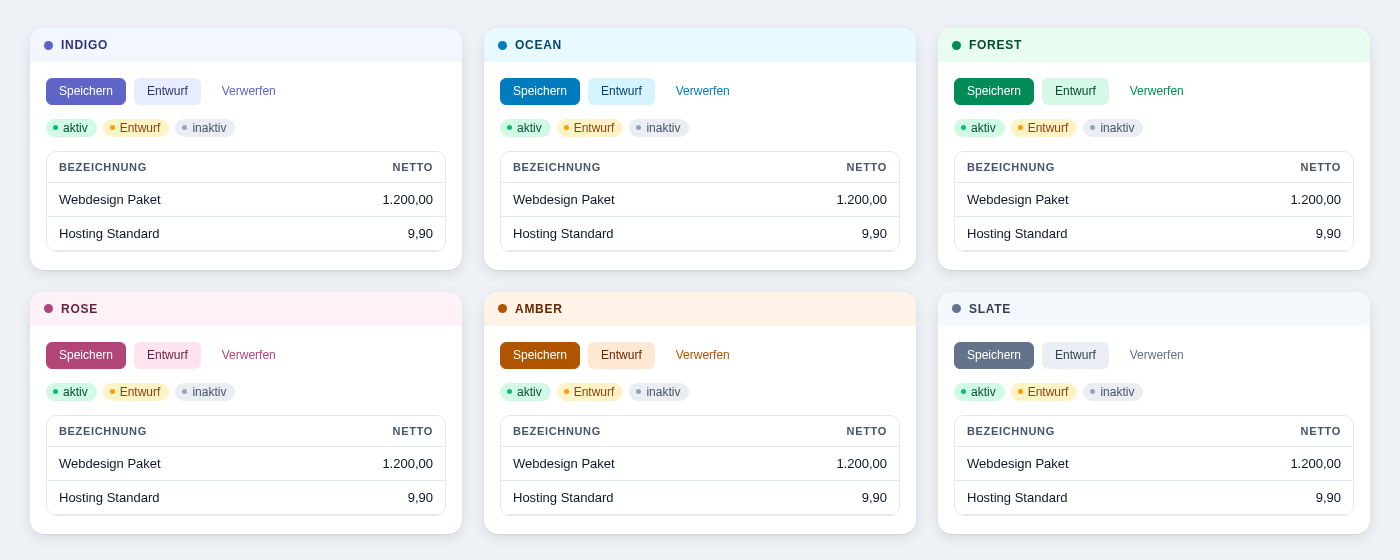
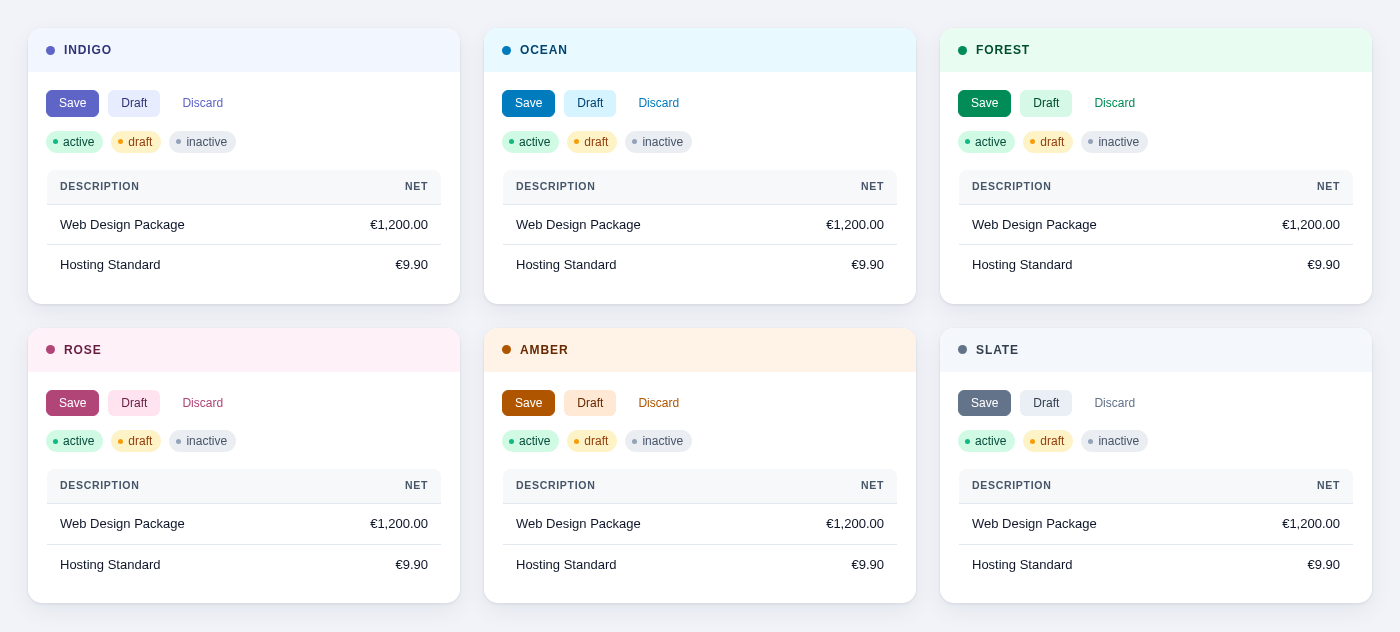
fix: currency, dates and numbers follow the locale (v1.30.0)
`['format' => 'currency']` emitted `1.200,00 €` for every user; `'date'`
emitted `d.m.Y`; `'number'` grouped with German separators. An English page
showed German money and a date an American reader would misread by ten months.

All four now resolve through Lang::t(). The English date format is `M j, Y`
rather than `m/d/Y` on purpose — `03/09` is genuinely ambiguous across the
Atlantic and `Mar 9` is not. A column can still override with
['currency' => '${value}'] or ['dateFormat' => 'Y-m-d'], so a non-EUR project
is one option away.

The demo's sample data now follows the locale too. The English demo listed
`Webdesign Paket S` and `SEO Beratung` at `1.200,00 €` — the first thing a
visitor sees, saying "German-market tool" before the README got a word in.

All README screenshots retaken in English and renamed to match. The theme
comparison was rebuilt from real GridKit markup instead of being hand-drawn,
so it shows what the six themes actually render — including the status colours
staying constant across all six, which is why semantic roles are kept out of
the theme blocks.

Added docs/social-preview.png: without one, every link posted anywhere shows
GitHub's grey default instead of the product.

Claude-Session: https://claude.ai/code/session_01TQ6nXrJZ1uSo5ACzRxHvuM

diff --git a/demo/index.php b/demo/index.php
@@ -18,6 +18,42 @@ use GridKit\Lang;
 $lang = $_GET['lang'] ?? $_COOKIE['gk_lang'] ?? 'en';
 if (!in_array($lang, ['en', 'de'])) $lang = 'en';
 Lang::set($lang);
+
+/**
+ * The sample data is written in German. Translating it for the English demo
+ * matters more than it looks: this table is the project's shop window, and
+ * German product names tell an English visitor that GridKit is a
+ * German-market tool. Prices stay as they are — the currency is genuinely EUR.
+ */
+$demoRows = static function (array $rows) use ($lang): array {
+    if ($lang !== 'en') return $rows;
+
+    static $map = [
+        'Webdesign Paket S'   => 'Web Design Package S',
+        'Webdesign Paket L'   => 'Web Design Package L',
+        'Webdesign Paket'     => 'Web Design Package',
+        'SEO Beratung'        => 'SEO Consulting',
+        'Social Media Paket'  => 'Social Media Package',
+        'Content Erstellung'  => 'Content Creation',
+        'SSL Zertifikat'      => 'SSL Certificate',
+        'App Entwicklung'     => 'App Development',
+        'Datenbank Migration' => 'Database Migration',
+        'E-Mail Marketing'    => 'Email Marketing',
+        'psch'                => 'flat',
+        'Stk'                 => 'pcs',
+    ];
+
+    foreach ($rows as &$row) {
+        foreach ($row as $key => $value) {
+            if (is_string($value) && isset($map[$value])) {
+                $row[$key] = $map[$value];
+            }
+        }
+    }
+    unset($row);
+
+    return $rows;
+};
 if (isset($_GET['lang'])) {
     setcookie('gk_lang', $lang, time() + 86400 * 365, '/');
 }
@@ -136,7 +172,7 @@ echo $demoHeader->title($headerTitle, true)
 
     <h3 style="margin: 32px 0 16px;">Complete table with all features</h3>
         <?php
-        $articles = [
+        $articles = $demoRows([
             ['article_id' => 1, 'article_number' => 'ART-001', 'name' => 'Webdesign Paket S', 'unit' => 'psch', 'net_price' => 1200.00, 'tax_rate' => 20, 'is_active' => 'active'],
             ['article_id' => 2, 'article_number' => 'ART-002', 'name' => 'Hosting Standard', 'unit' => 'Stk', 'net_price' => 9.90, 'tax_rate' => 20, 'is_active' => 'active'],
             ['article_id' => 3, 'article_number' => 'ART-003', 'name' => 'SEO Beratung', 'unit' => 'h', 'net_price' => 95.00, 'tax_rate' => 20, 'is_active' => 'inactive'],
@@ -152,7 +188,7 @@ echo $demoHeader->title($headerTitle, true)
             ['article_id' => 13, 'article_number' => 'ART-013', 'name' => 'App Entwicklung', 'unit' => 'h', 'net_price' => 125.00, 'tax_rate' => 20, 'is_active' => 'draft'],
             ['article_id' => 14, 'article_number' => 'ART-014', 'name' => 'Datenbank Migration', 'unit' => 'psch', 'net_price' => 890.00, 'tax_rate' => 20, 'is_active' => 'active'],
             ['article_id' => 15, 'article_number' => 'ART-015', 'name' => 'Security Audit', 'unit' => 'psch', 'net_price' => 1500.00, 'tax_rate' => 20, 'is_active' => 'inactive'],
-        ];
+        ]);
         $table = new Table('articles');
         $table->setData($articles)
             ->search(['article_number', 'name'])
@@ -254,12 +290,12 @@ $table->size('lg');  // spacious</pre></div>
 
     <h3 style="margin: 32px 0 16px;">Display variants</h3>
     <?php
-    $varData = [
+    $varData = $demoRows([
         ['name' => 'Webdesign Paket', 'price' => '1.200 €', 'status' => 'active'],
         ['name' => 'Hosting Standard', 'price' => '9,90 €', 'status' => 'active'],
         ['name' => 'SEO Beratung', 'price' => '95 €', 'status' => 'inactive'],
         ['name' => 'Logo Design', 'price' => '450 €', 'status' => 'draft'],
-    ];
+    ]);
     $variants = [
         'default'      => 'Default',
         'bordered'     => 'Bordered',

diff --git a/src/Table.php b/src/Table.php
@@ -467,7 +467,7 @@ class Table
                 }
             } else {
                 // Load time only
-                $timeDisplay = $this->loadTimeMs < 1000 ? $this->loadTimeMs . ' ms' : number_format($this->loadTimeMs / 1000, 2, ',', '.') . ' s';
+                $timeDisplay = $this->loadTimeMs < 1000 ? $this->loadTimeMs . ' ms' : number_format($this->loadTimeMs / 1000, 2, Lang::t('format.decimal'), Lang::t('format.thousands')) . ' s';
                 echo '<td colspan="' . $totalCols . '" class="gk-table-meta">'
                     . $e((string) $this->totalRows) . ' ' . $e(Lang::t('pagination.entries')) . ' · ' . $timeDisplay
                     . '</td>';
@@ -608,14 +608,15 @@ class Table
     /** Whole numbers; 0 and empty turn into an em dash (count columns). */
     private function formatNumber(mixed $val, array $col): string
     {
-        $leer = ($col['blankZero'] ?? true)
+        $blank = ($col['blankZero'] ?? true)
             && ($val === null || $val === '' || (is_numeric($val) && (float) $val == 0.0));
-        if ($leer) {
+        if ($blank) {
             return '<span class="gk-num gk-num-empty">—</span>';
         }
-        $stellen = (int) ($col['decimals'] ?? 0);
+        $decimals = (int) ($col['decimals'] ?? 0);
         $text = is_numeric($val)
-            ? number_format((float) $val, $stellen, ',', '.')
+            ? number_format((float) $val, $decimals,
+                Lang::t('format.decimal'), Lang::t('format.thousands'))
             : (string) $val;
         return '<span class="gk-num">' . htmlspecialchars($text, ENT_QUOTES, 'UTF-8') . '</span>';
     }
@@ -627,10 +628,19 @@ class Table
         if ($fmt === null) return $e($val);
 
         return match ($fmt) {
-            'currency' => $e(number_format((float)$val, 2, ',', '.') . ' €'),
+            'currency' => $e(str_replace(
+                '{value}',
+                number_format((float) $val, 2,
+                    Lang::t('format.decimal'), Lang::t('format.thousands')),
+                $col['currency'] ?? Lang::t('format.currency')
+            )),
             'percent' => $e((int)$val . '%'),
-            'date' => $val ? $e(date('d.m.Y', strtotime($val))) : '',
-            'datetime' => $val ? $e(date('d.m.Y H:i', strtotime($val))) : '',
+            'date' => $val
+                ? $e(date($col['dateFormat'] ?? Lang::t('format.date'), strtotime($val)))
+                : '',
+            'datetime' => $val
+                ? $e(date($col['dateFormat'] ?? Lang::t('format.datetime'), strtotime($val)))
+                : '',
             'boolean' => (int)$val ? '<span class="gk-bool gk-bool-yes">✓</span>' : '<span class="gk-bool gk-bool-no">–</span>',
             'email' => '<a href="mailto:' . $e($val) . '">' . $e($val) . '</a>',
             'label' => $this->renderLabel($val, $col['labels'] ?? []),

diff --git a/tests/lang.test.php b/tests/lang.test.php
@@ -134,4 +134,38 @@ return [
     Lang::set('en');
 },
 
+'currency, dates and numbers follow the locale' => function (): void {
+    $render = static fn(): string => T::capture(fn() => (new Table('t'))
+        ->setData([['id' => 1, 'price' => 1234.5, 'due' => '2026-03-09', 'qty' => 9876]])
+        ->column('price', 'Price', ['format' => 'currency'])
+        ->column('due',   'Due',   ['format' => 'date'])
+        ->column('qty',   'Qty',   ['format' => 'number'])
+        ->render());
+
+    Lang::set('en');
+    $en = $render();
+    T::contains($en, '€1,234.50', 'english currency: symbol first, comma grouping');
+    T::contains($en, 'Mar 9, 2026', 'english date is unambiguous — not d.m.Y or m/d/Y');
+    T::contains($en, '9,876', 'english number grouping');
+
+    Lang::set('de');
+    $de = $render();
+    T::contains($de, '1.234,50 €', 'german currency: symbol last, dot grouping');
+    T::contains($de, '09.03.2026', 'german date');
+    T::contains($de, '9.876', 'german number grouping');
+
+    Lang::set('en');
+},
+
+'a column may override the format it was given' => function (): void {
+    Lang::set('en');
+    $html = T::capture(fn() => (new Table('t'))
+        ->setData([['id' => 1, 'price' => 5, 'due' => '2026-03-09']])
+        ->column('price', 'Price', ['format' => 'currency', 'currency' => '${value}'])
+        ->column('due',   'Due',   ['format' => 'date', 'dateFormat' => 'Y-m-d'])
+        ->render());
+    T::contains($html, '$5.00', 'per-column currency pattern wins');
+    T::contains($html, '2026-03-09', 'per-column date format wins');
+},
+
 ];

diff --git a/lang/de.php b/lang/de.php
@@ -101,4 +101,7 @@ return [
     'tableheader.advanced'     => 'Erweiterte Filter',
     'tableheader.reset'        => 'Filter zurücksetzen',
     'yearfilter.all'           => 'Alle Jahre',
+    'format.currency'          => '{value} €',
+    'format.date'              => 'd.m.Y',
+    'format.datetime'          => 'd.m.Y H:i',
 ];

diff --git a/lang/en.php b/lang/en.php
@@ -101,4 +101,7 @@ return [
     'tableheader.advanced'     => 'Advanced filters',
     'tableheader.reset'        => 'Reset filters',
     'yearfilter.all'           => 'All years',
+    'format.currency'          => '€{value}',
+    'format.date'              => 'M j, Y',
+    'format.datetime'          => 'M j, Y H:i',
 ];

diff --git a/CHANGELOG.md b/CHANGELOG.md
@@ -7,6 +7,50 @@ Format based on [Keep a Changelog](https://keepachangelog.com/en/1.0.0/).
 > left as written. From 1.28.0 onwards the changelog is in English.
 
 ---
+## [1.30.0] - 2026-08-26
+
+The last places where GridKit assumed its user was German, and a shop window
+that finally shows what an English visitor would actually see.
+
+### Fixed
+
+- **Currency, dates and numbers ignored the locale.** `['format' => 'currency']`
+  emitted `1.200,00 €` for everyone; `['format' => 'date']` emitted `d.m.Y`;
+  `['format' => 'number']` grouped with German separators. An English page
+  therefore showed German money and a date format that an American reader would
+  misread by ten months. All four now resolve through `Lang::t()`:
+  - `format.currency` — `€{value}` (en) / `{value} €` (de)
+  - `format.date` — `M j, Y` (en) / `d.m.Y` (de). The English format is
+    deliberately not `m/d/Y`: `03/09` is genuinely ambiguous across the
+    Atlantic, `Mar 9` is not.
+  - `format.datetime`, `format.decimal`, `format.thousands`
+- A column can override either with `['currency' => '${value}']` or
+  `['dateFormat' => 'Y-m-d']`, so a non-EUR project is one option away.
+- Two more `number_format(…, ',', '.')` calls in `Table` that the previous pass
+  had missed, and the German identifiers `$leer` / `$stellen`.
+
+### Changed
+
+- **The demo's sample data now follows the locale.** The English demo used to
+  list `Webdesign Paket S` and `SEO Beratung` at `1.200,00 €`. This is the
+  first thing a visitor sees, and it said "German-market tool" before the
+  README got a word in.
+- **All README screenshots retaken in English**, and renamed from
+  `tabelle-hell.png` / `formular.png` to `table-light.png` / `form.png`.
+  The theme comparison was rebuilt from real GridKit markup rather than
+  hand-drawn, so it now shows what the six themes actually render — including
+  that the status colours stay constant across all six, which is the point of
+  keeping semantic roles out of the theme blocks.
+- **Added `docs/social-preview.png`** (1280×640) for the repository's social
+  card. Without one, every link posted to Reddit, Hacker News or X shows
+  GitHub's grey default instead of the product.
+
+### Added
+
+- Tests for all of the above: both locales' currency, date and number output,
+  and the per-column overrides.
+
+---
 ## [1.29.0] - 2026-08-26
 
 Making the repository something a stranger can actually rely on: a test suite,

diff --git a/README.md b/README.md
@@ -11,7 +11,7 @@ You write PHP. You get a searchable, sortable, filterable, paginated table that
 reloads over AJAX — with themes, dark mode and a mobile layout you didn't have
 to think about.
 
-![A GridKit table: search, filter, status pills, row actions](docs/screenshots/tabelle-hell.png)
+![A GridKit table: search, filter, status pills, row actions](docs/screenshots/table-light.png)
 
 ---
 
@@ -91,7 +91,7 @@ That is a complete seventh theme. Switching happens on `<body>`:
 <body class="gk-root" data-gk-theme="ocean" data-gk-mode="dark">
 ```
 
-![The same table in dark mode](docs/screenshots/tabelle-dunkel.png)
+![The same table in dark mode](docs/screenshots/table-dark.png)
 
 ---
 
@@ -100,7 +100,7 @@ That is a complete seventh theme. Switching happens on `<body>`:
 Sixteen-column grid, validation, file upload with drag & drop, searchable
 selects, rich text. Same fluent API as everything else.
 
-![A GridKit form](docs/screenshots/formular.png)
+![A GridKit form](docs/screenshots/form.png)
 
 ```php
 (new Form('product'))
